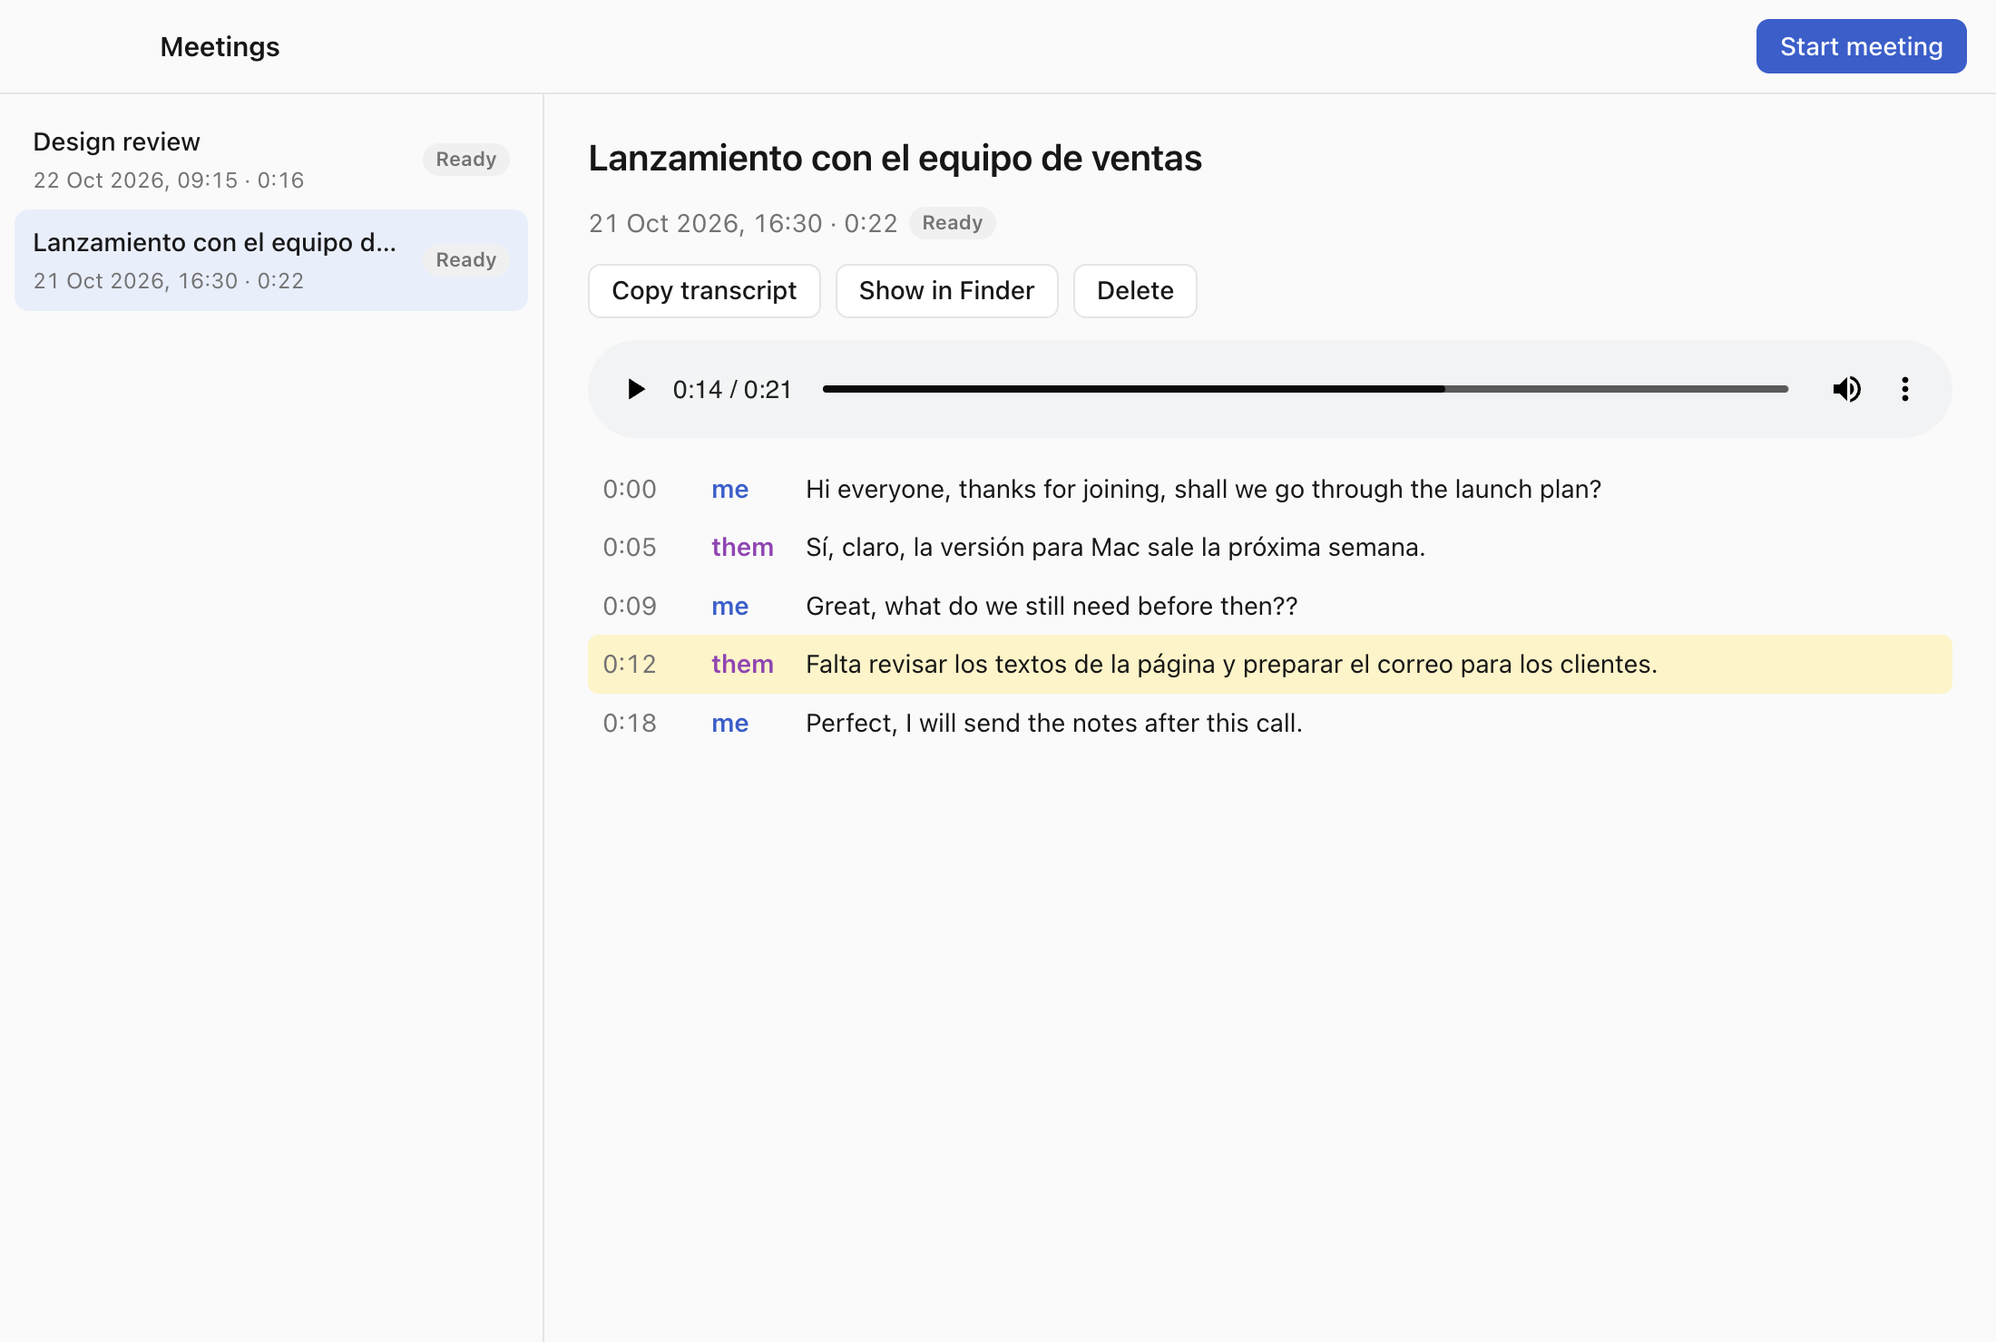
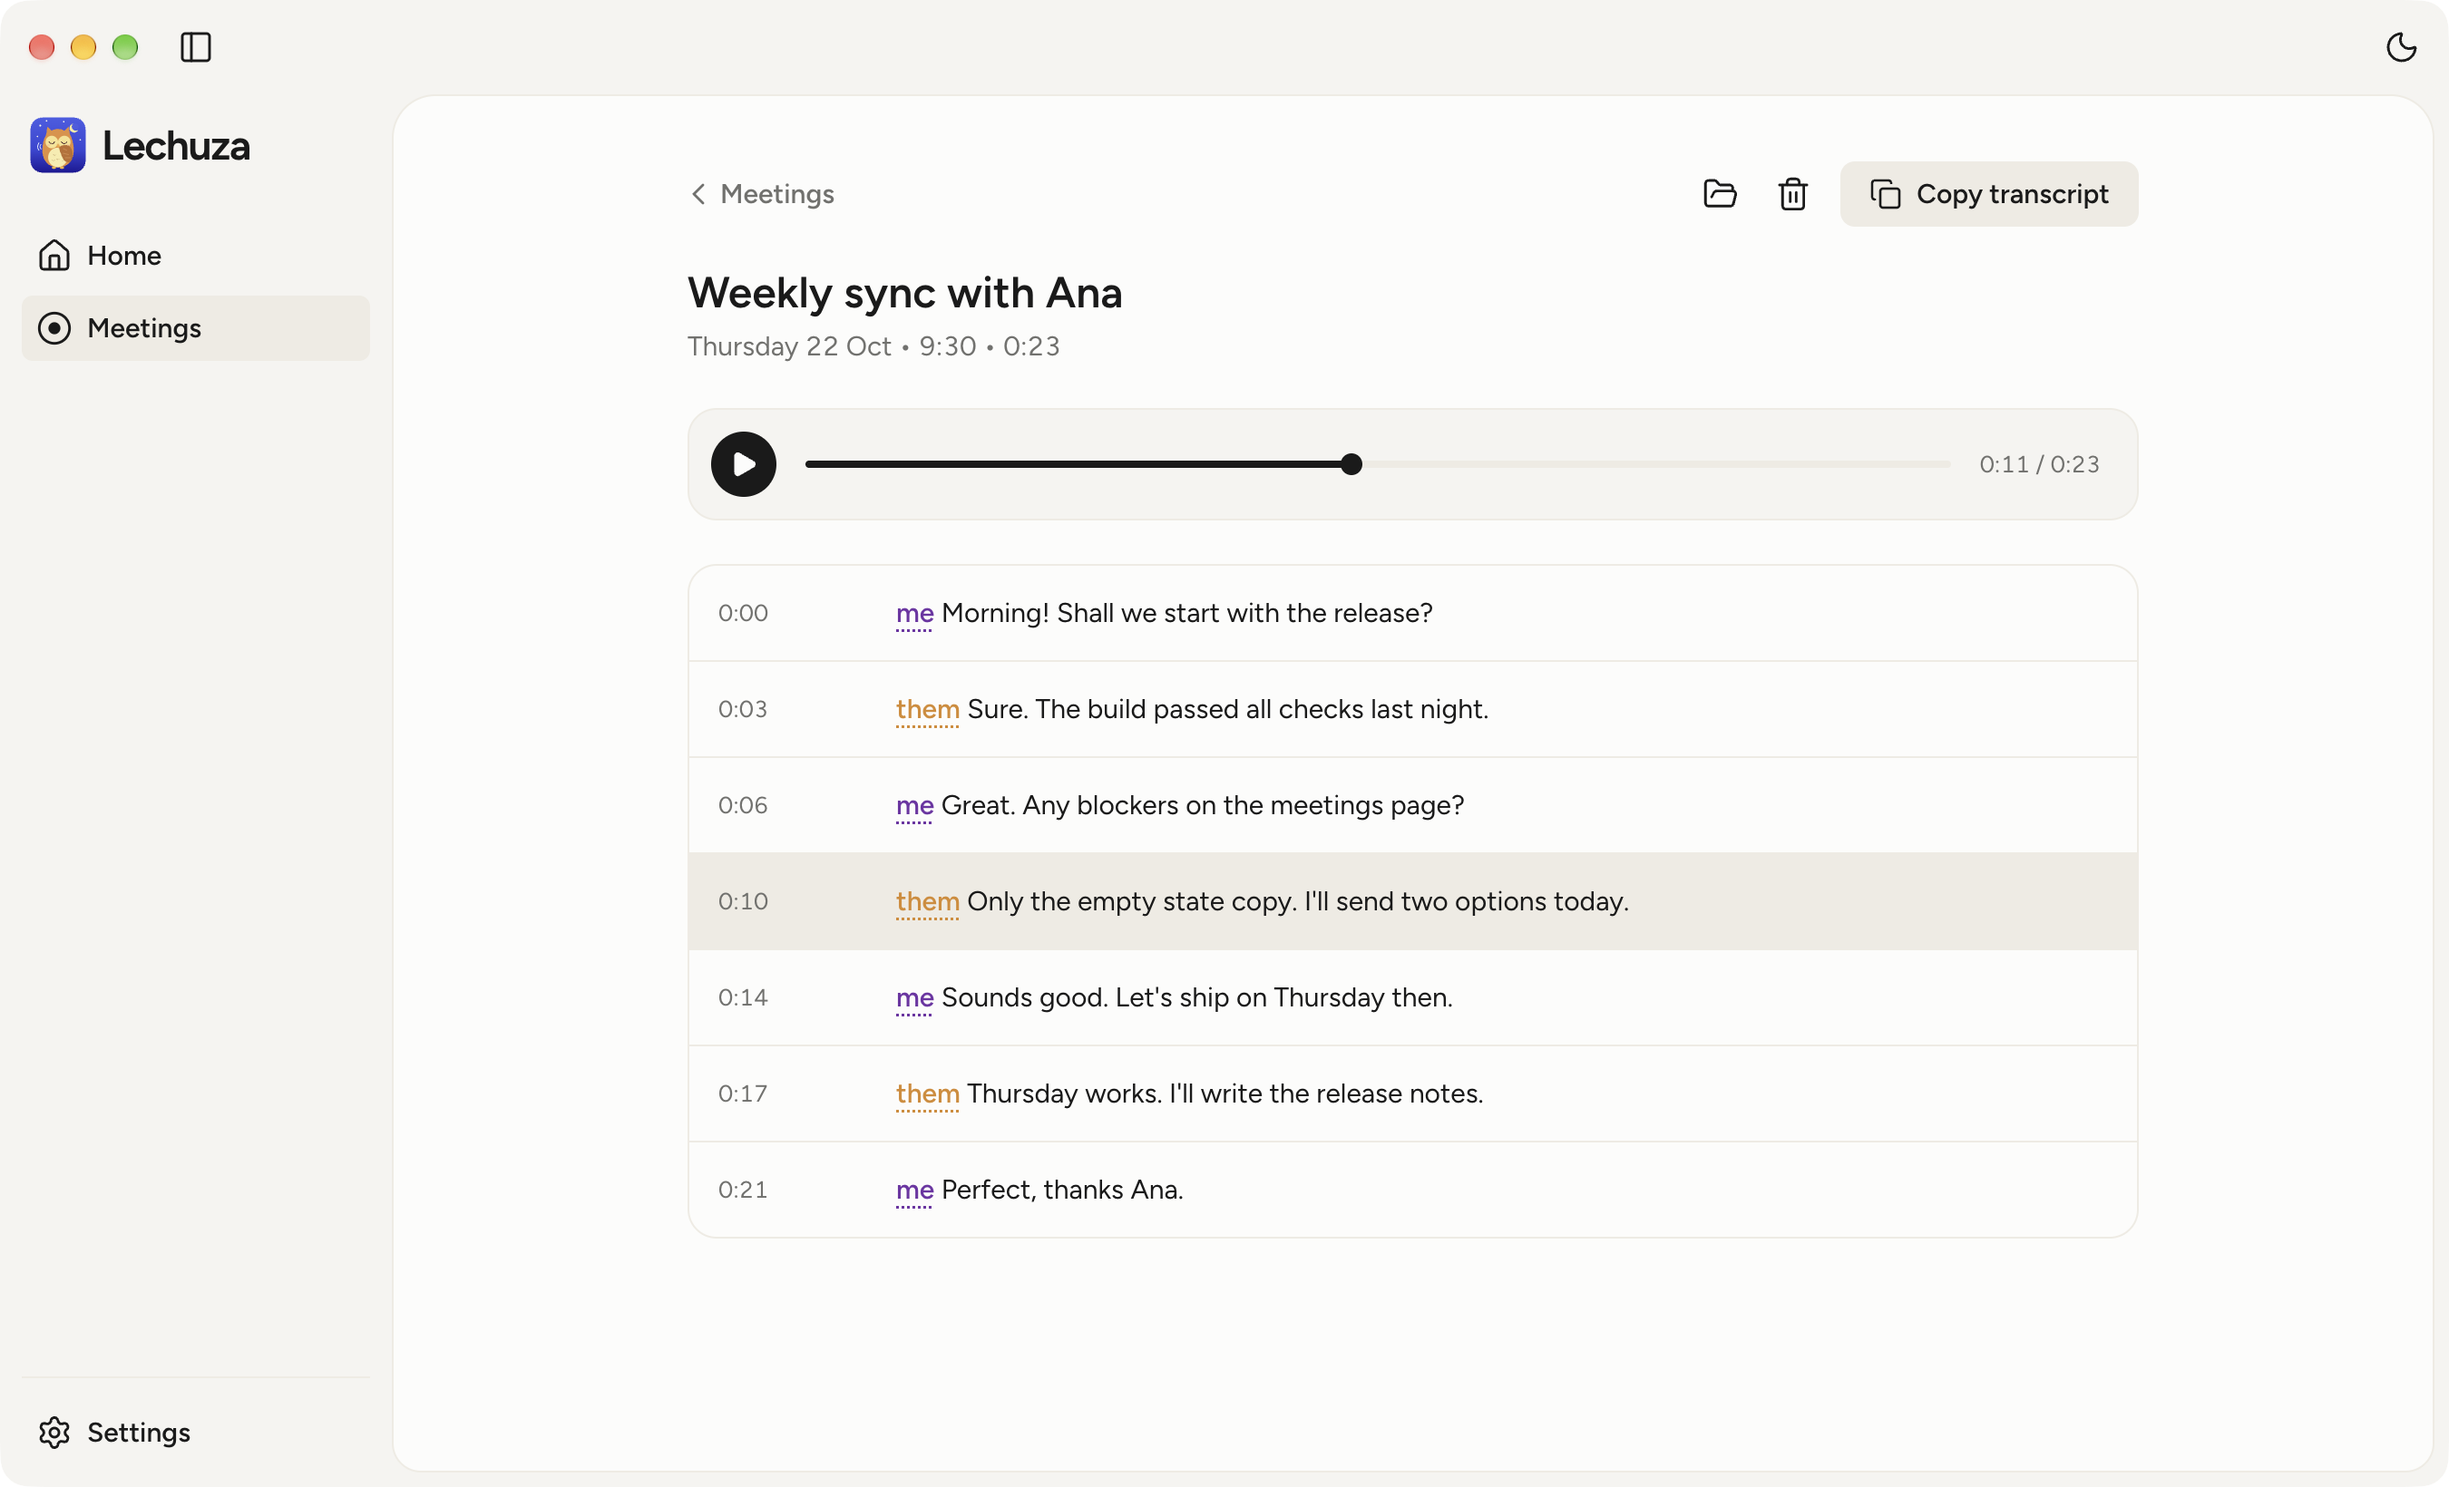
docs: Home, Settings and the new look in README and AGENTS

diff --git a/README.md b/README.md
@@ -27,7 +27,7 @@ Lechuza lives in the menu bar as an owl. Click it for **Start meeting**, **Stop 
 
 A meeting records two tracks at once: your microphone (`me`) and everything your Mac plays, which is the other side of the call (`them`). When you stop, Lechuza mixes them into one file you can play, then transcribes each track. The first transcription downloads the Parakeet v3 speech model (about 470 MB, once), with progress on the Meetings page.
 
-On the Meetings page, every meeting shows its title, date, length and state: recording, transcribing, ready or failed. Open one to:
+On the Meetings page, every meeting shows its title, date, length and state: recording, transcribing, ready or failed. Point at one to read the start of its transcript in the side pane. Open one to:
 
 - **Play** it. The transcript line being spoken lights up. Click any line to jump there.
 - **Copy transcript** as plain text, one line per sentence: `[0:05] them: Sí, claro…`
@@ -45,6 +45,10 @@ Each meeting is a plain folder in `~/Documents/Lechuza/Meetings/<yyyy-MM-dd-HHmm
 | `meta.json` | Start, length, track health and your title |
 
 Lechuza has no echo cancellation yet: without headphones, your microphone also hears the other side, so some of their words appear under `me` too.
+
+## Home and Settings
+
+Home greets you, lists your recent meetings by day, and adds up how many you've had and how long you've recorded. **Settings**, at the bottom of the sidebar, has the theme, your microphone, the speech model, the meetings folder, permissions and the version. The theme follows your Mac's appearance, or pick Light or Dark there or with the moon at the top right.
 
 ## Permissions
 
@@ -79,14 +83,16 @@ packages/contracts     Types and IPC channels shared by every process
   src/engine.ts          The app ↔ engine protocol (JSON lines), with a runtime parser
   fixtures/              One example of every engine message; both sides' tests read it
 apps/desktop           Electron main process
-  meetings.ts            Recording and transcription lifecycle (the single source of state)
+  meetings.ts            Recording and transcription lifecycle (the single source of meeting state)
   engineProcess.ts       Spawns lechuza-engine and speaks the protocol
   library.ts             Meeting folders on disk: list, rename, transcript
   mediaProtocol.ts       lechuza-media:// with byte ranges, so the player can seek
+  settings.ts            Your settings (the theme), saved in the app's data folder
   main.ts                Menu bar, IPC, wiring
-apps/web               React 19 + Vite + Tailwind 4; one bundle, #/surface picks the screen
-  surfaces/Meetings.tsx  The Meetings page
-  index.css              Every style, by class name
+apps/web               React 19 + Vite + Tailwind 4; one bundle, #/surface picks the window
+  surfaces/Main.tsx      The main window: sidebar, pages and the Settings dialog
+  pages/                 Home, Meetings, one meeting, Settings
+  index.css              Every style and colour, light and dark, by class name
 engine/                Swift package: the lechuza-engine helper
   Audio/                 Microphone (AVAudioEngine) and system audio (Core Audio process tap)
   RecordingSession.swift Both tracks on one clock, with capture health in meta.json
@@ -106,6 +112,7 @@ A meeting, step by step:
 
 - [Quill](https://github.com/humanitas-labs/quill) by Humanitas Labs. The engine's two-track capture, capture health, session metadata and Parakeet transcription are adapted from Quill (MIT; see [NOTICE](NOTICE)).
 - [FluidAudio](https://github.com/FluidInference/FluidAudio) runs [Parakeet TDT 0.6B v3](https://huggingface.co/nvidia/parakeet-tdt-0.6b-v3) on the Neural Engine.
+- The interface uses the [Figtree](https://github.com/erikdkennedy/figtree) and [EB Garamond](https://github.com/octaviopardo/EBGaramond12) fonts (SIL Open Font License) and [Lucide](https://lucide.dev) icons (ISC).
 
 ## License
 

diff --git a/AGENTS.md b/AGENTS.md
@@ -3,12 +3,14 @@
 On-device meeting recorder and dictation for macOS. Bun workspaces (`packages/contracts`, `apps/desktop` Electron main, `apps/web` React renderer) plus `engine/`, the Swift helper `lechuza-engine`. Read `README.md` for the architecture.
 
 - Checks: `bun run typecheck`, `bun test`, and `swift test --package-path engine`. The engine's speech test downloads Parakeet v3 (~470 MB) on its first run.
-- Main owns all state (`apps/desktop/src/meetings.ts`). The renderer sends intents through `window.lechuza` and renders the broadcast `AppState`. Add a capability in this order: contracts type + channel, preload, main handler, renderer.
+- Main owns all state. `apps/desktop/src/meetings.ts` owns the meeting part (`MeetingsState`); `main.ts` adds `settings` (saved in `settings.json` in the app's data folder) and `info` to make the `AppState` it broadcasts. The renderer sends intents through `window.lechuza` and renders that state. Add a capability in this order: contracts type + channel, preload, main handler, renderer.
 - The app and engine speak JSON lines on stdio. A message lives in three places that change together: `packages/contracts/src/engine.ts`, `engine/Sources/LechuzaEngine/Protocol.swift`, and one example in `packages/contracts/fixtures/engine-protocol.json`, which both sides' tests decode. `dictation.*` is reserved for dictation (#4).
 - macOS grants Documents, Microphone and System Audio Recording to the app that launched the engine. Packaged, that is Lechuza, because main spawns `Contents/Resources/lechuza-engine` as its child. Under `bun run dev` it is the terminal's app (T3 Code), so the prompts never name Lechuza there; prove permission behaviour on a `bun run dist` build launched with `open`.
 - Signed builds use the hardened runtime: `apps/desktop/build/entitlements.mac.plist` must keep `com.apple.security.device.audio-input`, and `build.mac.extendInfo` in `apps/desktop/package.json` its usage strings, or macOS blocks capture with no prompt.
 - This Mac has a Developer ID identity, which electron-builder picks first. Local `bun run dist` signs with Apple Development: `CSC_NAME="Apple Development: <name>" bun run dist`.
-- Every style is in `apps/web/src/index.css`, under semantic class names. Components carry class names only.
+- Every style is in `apps/web/src/index.css`, under semantic class names. Components carry class names only. Its colour variables come in a light and a dark set. The Theme setting sets `nativeTheme.themeSource`, which drives `prefers-color-scheme`, so CSS needs nothing else for dark mode.
+- Fonts (Figtree, EB Garamond) come from Fontsource and icons from Lucide. Their licences are in `NOTICE`; a new bundled font, icon set or image adds its licence there.
+- The app icon, `apps/desktop/build/icon.icns`, is generated from `assets/icon.svg` by `bun apps/desktop/scripts/app-icon.ts`. The menu bar owl is `assets/tray.svg`, rendered by `apps/desktop/scripts/tray-icon.ts`.
 - Electron won't start if `ELECTRON_RUN_AS_NODE=1` is set (T3 Code terminals set it). Prefix commands with `env -u ELECTRON_RUN_AS_NODE`, `open /Applications/Lechuza.app` included: `open` passes the shell's environment on.
 - Bun's bundler bakes `__dirname` in at build time. Resolve app files from `app.getAppPath()`.
 - `LECHUZA_MEETINGS_DIR` points the app at another meetings folder. Use it for demos and screenshots, so real meetings stay out of them.
